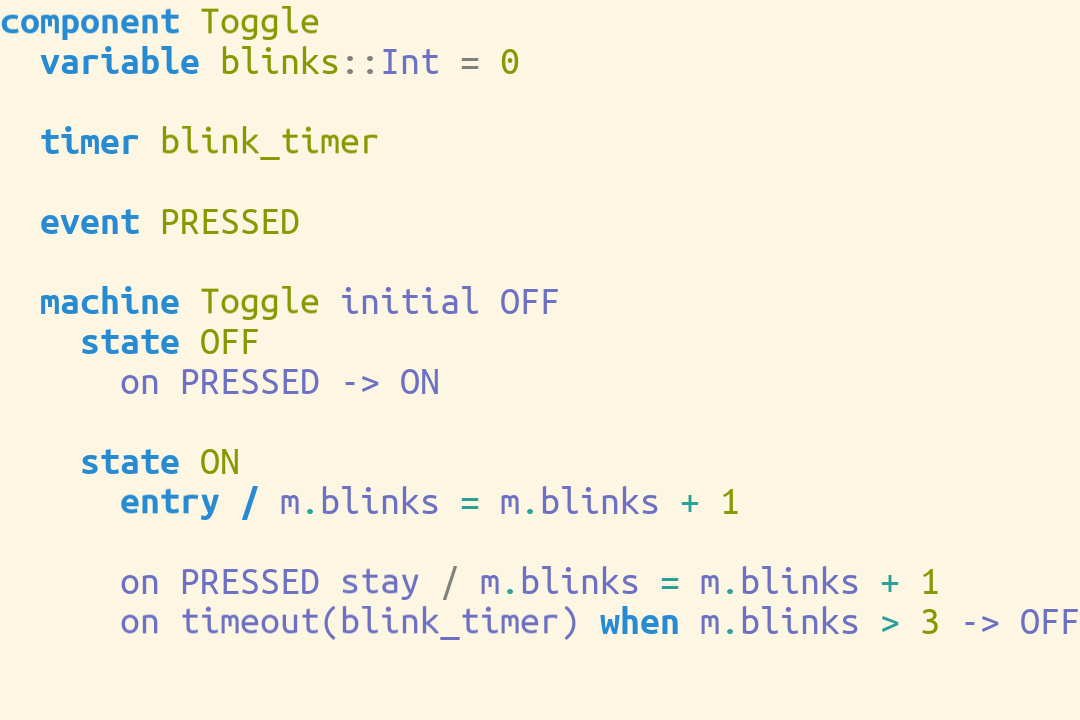
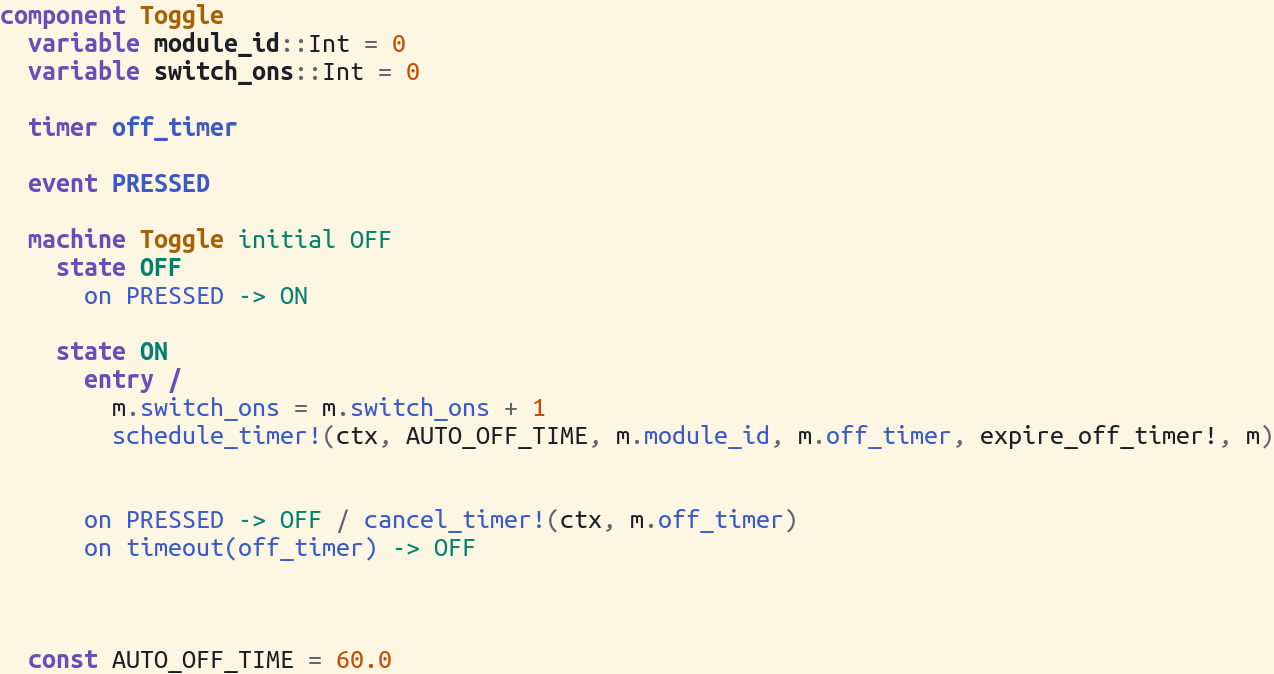
fsm, documentation: the sweeps skip the long walks of the new examples, the pictures show them, and the guides name them; the plan is done
fsm_crossing and fsm_alternating_bit take more than a minute in each
navigation walk, so they join fsm in the skip lists, and the diagram of
the protocol joins fsm_diagram. The REPL sweep marks the old `,`
failure of the two diagram examples as broken. The pictures of the new
examples are new; fsm.png stays, because a picture of a text taller
than the height cap draws only its first lines (on main too). fsm.md
shows the diagram, the notation of the traffic light, the layout of the
diagram and the timer calls of the runtime; examples-tour.md and
adaptagrams.md name the examples and their engines (state machine
examples, step 5).

diff --git a/plan/done/the-state-machine-examples-run.md b/plan/done/the-state-machine-examples-run.md
@@ -1,7 +1,8 @@
 # The state machine examples run
 
-Status: pending. Written 2026-10-27. The scope is the owner's; the machines, the
-names and the steps are proposed.
+Status: DONE, 2026-10-27, on the branch `fsm-examples`; not landed on `main`.
+The scope is the owner's, and the owner asked to implement the plan; the
+machines, the names and the steps are proposed.
 
 ## The ask
 
@@ -182,8 +183,40 @@ The work is on the branch `fsm-examples`, in a worktree.
    `generate_example_screenshots` for the FSM examples. The guides: `fsm.md` and
    `examples-tour.md`. Then the plan moves to `plan/done/`.
 
+   ✅ Done. The walks, measured the way each sweep calls them:
+
+   | Example | position navigation | text navigation |
+   | --- | --- | --- |
+   | `fsm_toggle` | 34 s | 28 s |
+   | `fsm_crossing` | 1m42s | 1m15s |
+   | `fsm_alternating_bit` | 4m55s | 3m37s |
+
+   So `fsm_crossing` and `fsm_alternating_bit` join `fsm` in the skip lists of
+   the two navigation sweeps and of the click sweep, and `fsm_toggle` stays.
+   `fsm_alternating_bit_diagram` joins `fsm_diagram` in the skip list of the
+   position navigation; both pass the text navigation (11) and the click (1).
+   Found in the work: `fsm_diagram` fails 1 of 230 in the REPL sweep on `main`,
+   unmarked, on `,`. `repl_broken` now marks that `SelectionMismatchException`
+   for both diagram examples, so the REPL sweep shows 1 Broken for each and no
+   Fail.
+
+   The pictures: `fsm-toggle`, `fsm-crossing`, `fsm-alternating-bit`,
+   `fsm-diagram` and `fsm-alternating-bit-diagram`, made in a fresh process (a
+   REPL walk in the same process edits the cached example document first). Found
+   in the work: a picture of a text taller than the height cap draws only its
+   first lines. `write_image` prints the document a second time with the cap as
+   the offered height, and that print draws only the variables of TCP. `main`
+   gives the same picture of its own TCP. So `fsm.png` stays the picture of
+   2026-09-18, and `fsm.md` shows `fsm-diagram.png` first. The guides: `fsm.md`
+   (the notation of `fsm_crossing`, the label `always`, the layout of the
+   diagram, no branch for a state with no transition, the timer calls of the
+   runtime, the examples and the tests), `examples-tour.md`, and `adaptagrams.md`,
+   whose sentence about which example names which engine was wrong for the graph
+   example and the natural row too.
+
 Not in this plan: a live run of a machine in the gallery; a diagram of TCP; the
 names that the generator calls (`fsm_drain!`, `fsm_enter!`) differ from the real
 runtime (`drain_fsm!`, `enter_fsm!`); the recorded precompile statements of the
 new examples; a Julia `if` with an empty body prints its `else` on the line of
-its condition.
+its condition; a picture of a text taller than the height cap of `write_image`
+draws only its first lines, on `main` too.

diff --git a/documentation/package/adapter/adaptagrams/adaptagrams.md b/documentation/package/adapter/adaptagrams/adaptagrams.md
@@ -58,7 +58,7 @@ The code is the slice `AdaptagramsModule`, in `source/adapter/adaptagrams/`: `Ad
 
 `ProjecturedAdaptagrams` depends on `ProjecturedGraph` and on the standard library `Libdl`. No package of the editor depends on it.
 
-Its `__init__` calls `register_layout_engine!((; orthogonal) -> AdaptagramsLayout(orthogonal = orthogonal))`. From then on, each `DeferredLayout` resolves to this engine; see [graph.md](../../domain/graph/graph.md#the-deferred-choice-of-an-engine). A projection that names another engine does not change. In this repository the process flowchart is the one example that names a deferred engine. The graph example, the fsm diagram and the natural row of `GraphGraph` name `GridEmbedding`.
+Its `__init__` calls `register_layout_engine!((; orthogonal) -> AdaptagramsLayout(orthogonal = orthogonal))`. From then on, each `DeferredLayout` resolves to this engine; see [graph.md](../../domain/graph/graph.md#the-deferred-choice-of-an-engine). A projection that names another engine does not change. In this repository the process flowchart, the graph example and the natural row of `GraphGraph` name a deferred engine. The fsm diagram names `FruchtermanReingoldLayout`, so this package does not change it.
 
 `ProjecturedAdaptagramsExample` holds the examples that name `AdaptagramsLayout` directly, so the other example packages do not depend on the native library.
 

diff --git a/documentation/guide/examples-tour.md b/documentation/guide/examples-tour.md
@@ -34,7 +34,7 @@ write_example_pdf("json", "/tmp/snapshot.pdf")
 
 **Charts and diagrams.** `chart`, `chart_line`, `chart_bar`, `chart_histogram`, `chart_scatter`, `chart_strip`, `chart_inspector`, `graph`, `sequencechart` and its four variants. A chart is a document, and a data point is selectable.
 
-**Models that run.** `fsm`, `fsm_toggle`, `fsm_diagram` — a state machine that produces Julia code. `rotating_vector` — a document that drives itself.
+**Models that run.** `fsm_toggle`, `fsm_crossing`, `fsm_alternating_bit` and `fsm`, the TCP connection — state machines that produce Julia code that runs; `fsm_diagram` and `fsm_alternating_bit_diagram` draw a machine. `rotating_vector` — a document that drives itself.
 
 **The general steps.** `collection`, `reversing`, `filtering`, `searching`, `sorting`, `focusing`, `dragging`. One step in front of any data: a filter, a sort, a search. They work for every domain, which is what makes them worth reading.
 
